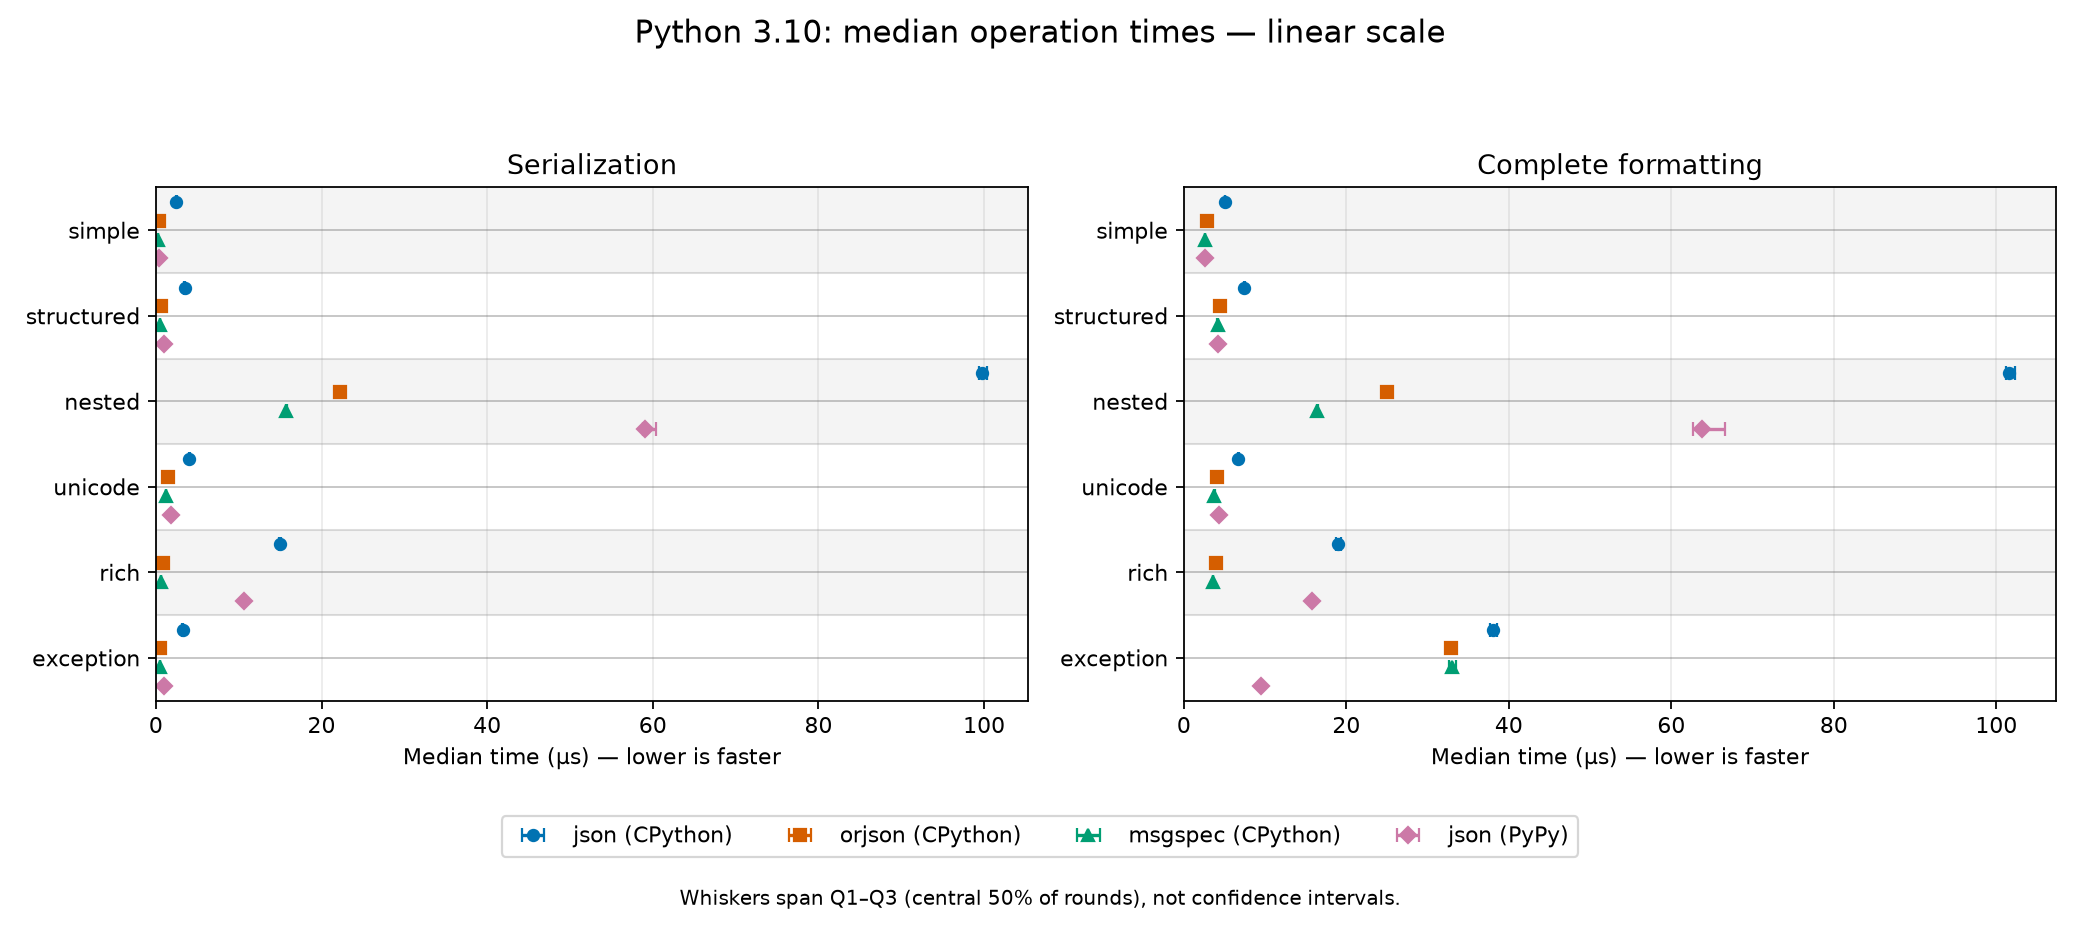
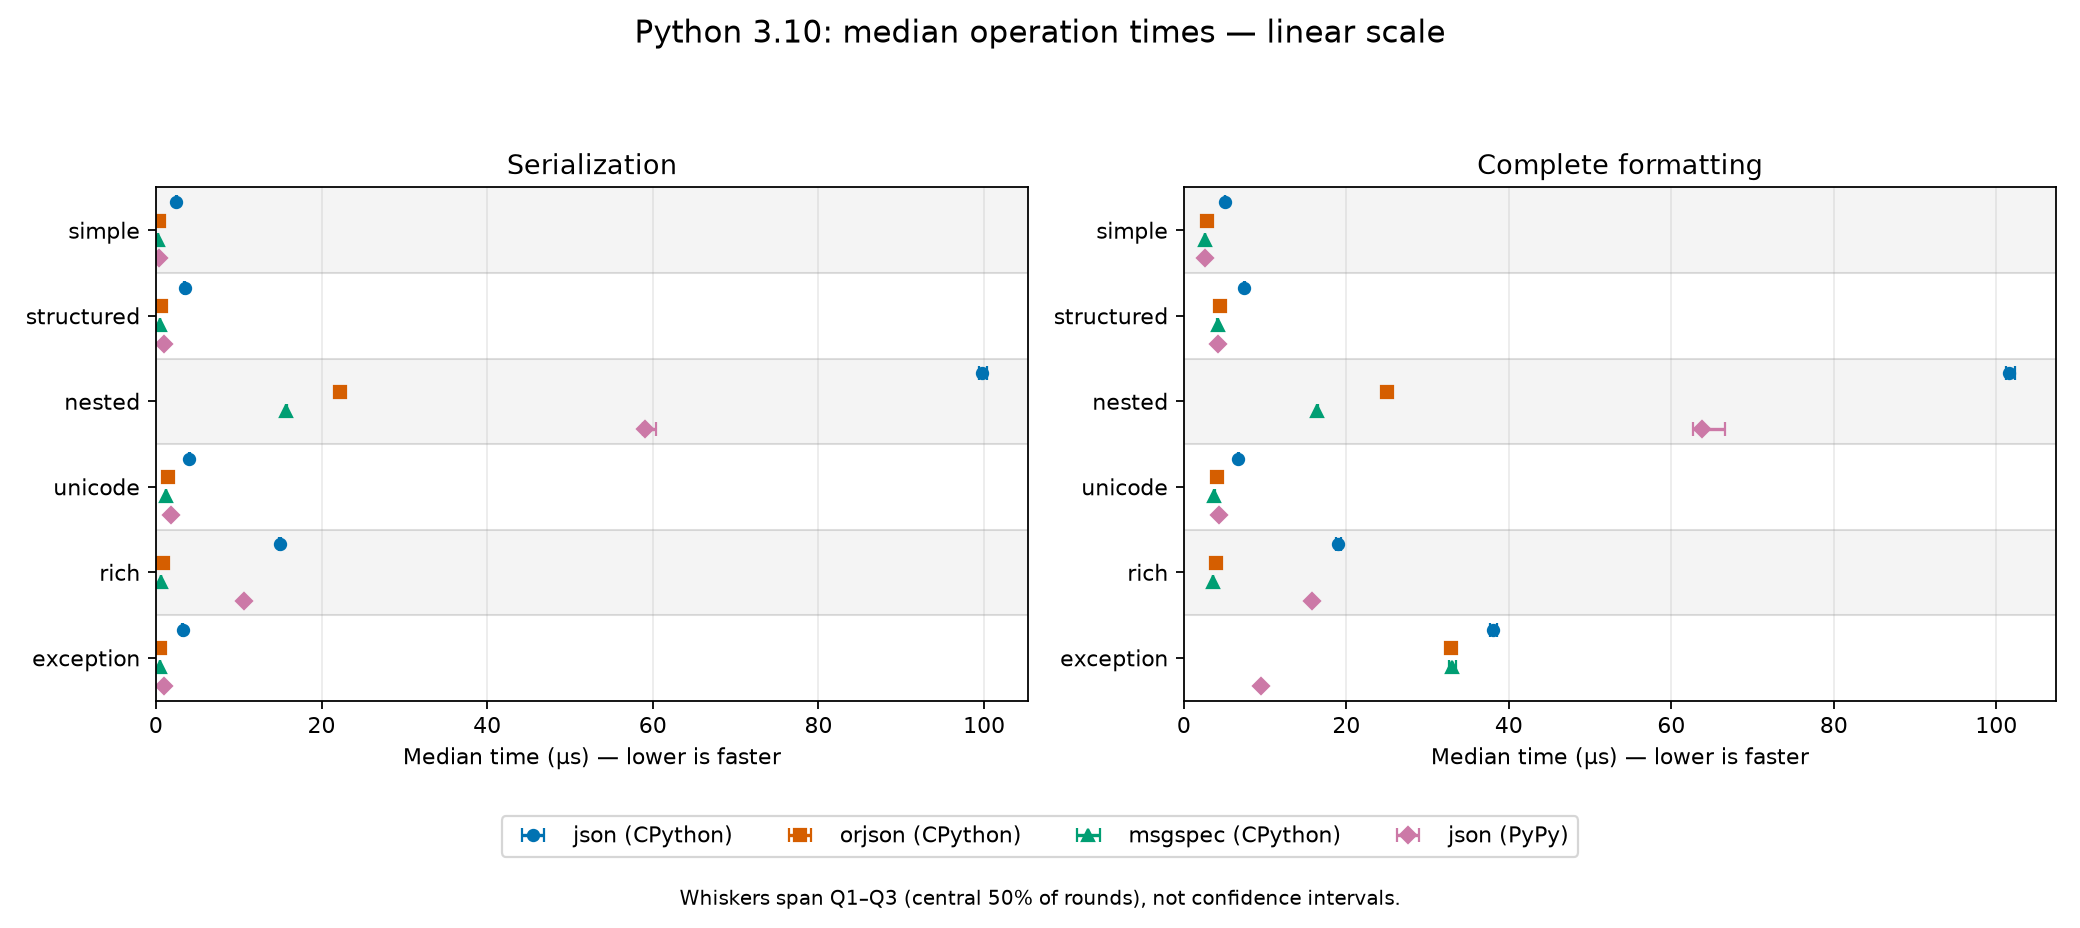
[benchmark] Keep preview workload guides only at shared boundaries

diff --git a/chart-previews/render.py b/chart-previews/render.py
@@ -30,7 +30,7 @@ def main() -> None:
             axis.set_xlim(left=0)
             axis.set_xlabel("Median time (µs) — lower is faster")
             axis.set_ylim(len(WORKLOADS) - 0.5, -0.5)
-            axis.grid(axis="y", color="#666666", alpha=0.4, linewidth=0.8)
+            axis.grid(axis="y", visible=False)
             for row in range(len(WORKLOADS)):
                 if row % 2 == 0:
                     axis.axhspan(row - 0.5, row + 0.5, color="#000000", alpha=0.045, zorder=0)
